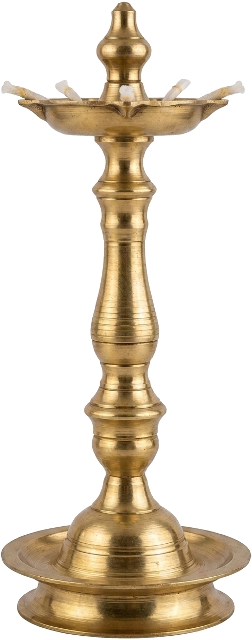
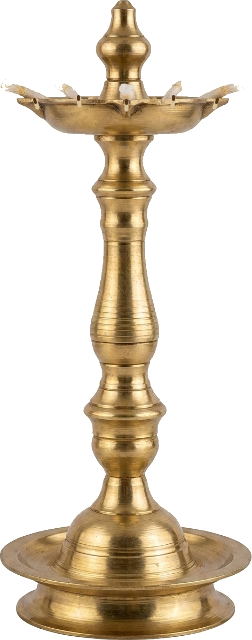
Release 1.0.14 with updated diyas and sacred entry prompt

diff --git a/android/app/src/main/java/com/worship/nityamandir/ui/screens/MandirHomeScreen.kt b/android/app/src/main/java/com/worship/nityamandir/ui/screens/MandirHomeScreen.kt
@@ -275,7 +275,17 @@ fun MandirHomeScreen(modifier:Modifier=Modifier) {
                 onClickLabel=tr("मंदिर खोलें","Open temple"),
                 role=androidx.compose.ui.semantics.Role.Button,
                 onClick={entered=true}
-            ))
+            )) {
+                if(!customizer) {
+                    SacredEntrancePrompt(
+                        hindi = hindi,
+                        modifier = Modifier
+                            .align(Alignment.BottomCenter)
+                            .navigationBarsPadding()
+                            .padding(horizontal = 24.dp, vertical = 28.dp)
+                    )
+                }
+            }
             else if(curtainMoving) Box(Modifier.matchParentSize().pointerInput(Unit) {
                 awaitPointerEventScope { while(true) { awaitPointerEvent().changes.forEach { it.consume() } } }
             })
@@ -708,6 +718,51 @@ private fun MandirNavigationDrawer(open: Boolean, onDismiss: () -> Unit, hindi: 
                     content()
                 }
             }
+        }
+    }
+}
+
+@Composable
+private fun SacredEntrancePrompt(hindi: Boolean, modifier: Modifier = Modifier) {
+    val shape = RoundedCornerShape(24.dp)
+    Surface(
+        modifier = modifier
+            .widthIn(max = 360.dp)
+            .fillMaxWidth()
+            .shadow(14.dp, shape, ambientColor = Color(0x661A1108), spotColor = Color(0x661A1108)),
+        shape = shape,
+        color = Color.Transparent,
+        border = BorderStroke(
+            1.5.dp,
+            Brush.linearGradient(
+                listOf(Color(0xFFF7E2A4), Color(0xFFB3833B), Color(0xFFE5C168), Color(0xFF8F6324))
+            )
+        )
+    ) {
+        Column(
+            Modifier
+                .background(
+                    Brush.verticalGradient(
+                        listOf(Color(0xF5FFFDF8), Color(0xEEFAF3E6), Color(0xE8F3E7D3))
+                    )
+                )
+                .padding(horizontal = 20.dp, vertical = 14.dp),
+            horizontalAlignment = Alignment.CenterHorizontally,
+            verticalArrangement = Arrangement.spacedBy(4.dp)
+        ) {
+            Text(
+                text = if (hindi) "ॐ · शुद्धि संकल्प" else "OM · SACRED ENTRY",
+                fontSize = 11.sp,
+                fontWeight = FontWeight.Bold,
+                color = RitualGold,
+                letterSpacing = 1.sp
+            )
+            Text(
+                text = if (hindi) "आप स्वच्छ हैं · द्वार खोलने के लिए छुएँ" else "You are clean · Click to open door",
+                fontSize = 16.sp,
+                fontWeight = FontWeight.Bold,
+                color = RitualInk
+            )
         }
     }
 }

diff --git a/android/app/src/main/java/com/worship/nityamandir/ui/components/MandirAltarView.kt b/android/app/src/main/java/com/worship/nityamandir/ui/components/MandirAltarView.kt
@@ -213,19 +213,21 @@ fun MandirAltarView(
         return flowerBitmaps[index % flowerBitmaps.size]
     }
 
-    val standingLampWidth = if (selection["lamp"] == "brass") .135f else .14f
+    val standingLampWidth = .104f
     val standingLampAspect = lampBitmap.height.toFloat() / lampBitmap.width.toFloat().coerceAtLeast(1f)
     val standingLampHeight = standingLampWidth * standingLampAspect
-    val oilWick = remember(oilPoint, standingLampWidth, standingLampHeight, selection["lamp"]) {
+    val oilWicks = remember(oilPoint, standingLampWidth, standingLampHeight, selection["lamp"]) {
         if (selection["lamp"] == "brass") {
-            TemplePoint(
-                oilPoint.x,
-                oilPoint.y - standingLampHeight * .765f
+            listOf(
+                TemplePoint(oilPoint.x - standingLampWidth * .355f, oilPoint.y - standingLampHeight * .842f),
+                TemplePoint(oilPoint.x - standingLampWidth * .185f, oilPoint.y - standingLampHeight * .846f),
+                TemplePoint(oilPoint.x, oilPoint.y - standingLampHeight * .840f),
+                TemplePoint(oilPoint.x + standingLampWidth * .185f, oilPoint.y - standingLampHeight * .846f),
+                TemplePoint(oilPoint.x + standingLampWidth * .355f, oilPoint.y - standingLampHeight * .842f)
             )
         } else {
-            TemplePoint(
-                oilPoint.x - standingLampWidth * .45f,
-                oilPoint.y - standingLampHeight * .895f
+            listOf(
+                TemplePoint(oilPoint.x - standingLampWidth * .355f, oilPoint.y - standingLampHeight * .842f)
             )
         }
     }
@@ -634,7 +636,8 @@ fun MandirAltarView(
                 oilPoint = oilPoint,
                 traditional = selection["aarti"] != "original",
                 brass = selection["lamp"] != "original",
-                oilWick = oilWick
+                oilWick = oilWicks.firstOrNull(),
+                oilWicks = oilWicks
             )
         }
         WaterFlowOverlay(bathTarget, bathProgress, placement = idolPlacement, modifier = Modifier.zIndex(10.5f))
@@ -669,7 +672,7 @@ fun MandirAltarView(
             )
         }
         Box(
-            target(TemplePoint(oilPoint.x - .06f, oilPoint.y - .18f), .12f, .22f)
+            target(TemplePoint(oilPoint.x - .06f, oilPoint.y - standingLampHeight), .12f, standingLampHeight + .02f)
                 .zIndex(12f)
                 .clickable(onClickLabel = "दीप जलाएँ · Light oil lamp", onClick = onDiyaClick)
         )

diff --git a/android/app/src/main/java/com/worship/nityamandir/ui/components/RitualFlamesOverlay.kt b/android/app/src/main/java/com/worship/nityamandir/ui/components/RitualFlamesOverlay.kt
@@ -15,7 +15,7 @@ import kotlin.math.sin
 
 /** Screen-space flames stay attached to the moving wick, with independent, smooth flicker. */
 @Composable
-fun RitualFlamesOverlay(oilLit: Boolean, aartiLit: Boolean, lamp: TemplePoint, oilPoint:TemplePoint=TempleSceneLayout.oil, traditional:Boolean=false, brass:Boolean=false, oilWick:TemplePoint?=null) {
+fun RitualFlamesOverlay(oilLit: Boolean, aartiLit: Boolean, lamp: TemplePoint, oilPoint:TemplePoint=TempleSceneLayout.oil, traditional:Boolean=false, brass:Boolean=false, oilWick:TemplePoint?=null, oilWicks:List<TemplePoint> = emptyList()) {
     if(!oilLit && !aartiLit) return
     var seconds by remember { mutableFloatStateOf(0f) }
     val lifecycle = LocalLifecycleOwner.current.lifecycle
@@ -52,7 +52,17 @@ fun RitualFlamesOverlay(oilLit: Boolean, aartiLit: Boolean, lamp: TemplePoint, o
             drawOval(Color(0xAA689AF0),base-Offset(width*.35f,height*.10f),androidx.compose.ui.geometry.Size(width*.7f,height*.12f))
             drawLine(Color(0xFF482819),base+Offset(0f,unit*.004f),base-Offset(0f,unit*.004f),unit*.0025f,StrokeCap.Round)
         }
-        if(oilLit) flame(oilWick ?: TemplePoint(oilPoint.x,oilPoint.y-(if(brass) .125f else .11f)),0f,1.35f)
+        if(oilLit) {
+            if(oilWicks.size > 1) {
+                oilWicks.forEachIndexed { index, wickPoint ->
+                    val spoutScale = if(index == 1 || index == 3) .82f else .92f
+                    flame(wickPoint, index * .67f, scale = spoutScale, flicker = .55f)
+                }
+            } else {
+                val singleWick = oilWicks.firstOrNull() ?: oilWick ?: TemplePoint(oilPoint.x, oilPoint.y - (if(brass) .125f else .11f))
+                flame(singleWick, 0f, scale = 1.08f)
+            }
+        }
         if(aartiLit || oilLit) {
             val aartiScale = if(aartiLit) TempleSceneLayout.AARTI_SCALE else TempleSceneLayout.AARTI_SCALE * .85f
             if(traditional) {

diff --git a/scripts/build_catalog.py b/scripts/build_catalog.py
@@ -19,7 +19,7 @@ category('garland','Garland','माला',[
  picture('lotus','Lotus & pearl','कमल और मोती की माला','garlands','lotus_pearl'),
  picture('mogra','Mogra & saffron','मोगरा और केसर माला','garlands','mogra')])
 category('flowers','Flowers','फूल',[model('original','Sunflower & peony','सूरजमुखी और पियोनी','flowers','sunflower')]+[model(n,e,h,'flowers',n) for n,e,h in [('orchid','Orchid','ऑर्किड'),('rose','Rose','गुलाब'),('azalea','Azalea','अज़ेलिया'),('bouquet','Lily','लिली')]])
-category('lamp','Oil lamp','दीपक',[model('original','Golden lamp','सुनहरा दीपक','lamps','golden_oil'),model('brass','Brass diya','पीतल का दीया','lamps','brass_diya')])
+category('lamp','Oil lamp','दीपक',[model('original','Single diya','एकमुखी दीपक','lamps','golden_oil'),model('brass','Panchmukhi diya','पंचमुखी दीपक','lamps','brass_diya')])
 category('shankh','Shankh','शंख',[model('original','Classic shankh','पारंपरिक शंख','shankh','classic'),model('ivory','Ivory shankh','श्वेत शंख','shankh','ivory')])
 category('aarti','Aarti lamp','आरती दीप',[model('original','Golden aarti','सुनहरी आरती','aarti','golden'),model('traditional','Traditional aarti','पारंपरिक आरती','aarti','traditional')])
 category('prasad','Prasad','प्रसाद',[picture('original','Laddu bowl','लड्डू का कटोरा','prasad','laddu_bowl'),picture('halwa','Halwa','हलवा','prasad','halwa'),model('laddu','Tirupati laddu','तिरुपति लड्डू','prasad','laddu')])

diff --git a/docs/ANDROID_RELEASE.md b/docs/ANDROID_RELEASE.md
@@ -1,9 +1,16 @@
 # Android release builds
 
 Application ID: `com.pavitramandir.app`  
-Version: `1.0.13` (version code `14`)
+Version: `1.0.14` (version code `15`)
 
 ## Latest release verification
+
+Version 1.0.14 includes the latest shrine artwork, garland selections, diya lamp
+labels (`Single diya` / `Panchmukhi diya`), and ritual layout updates. The
+signed APK and AAB, with SHA-256 checksums, are stored in
+`android/app/build/outputs/releases/1.0.14/`.
+
+## Version 1.0.13 verification
 
 Version 1.0.13 increments the Android version for this release build. The
 versioned APK and AAB, with SHA-256 checksums, are stored in
